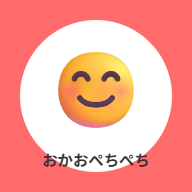
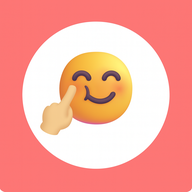
feat: PWA最適化とアイコン更新
- 結果画面の中央表示修正
- シェア機能をデスクトップ向けに最適化
- アイコンパス設定を相対パスに変更
- デバッグログの最適化
- 不要ファイルの削除

diff --git a/main.js b/main.js
@@ -9,9 +9,15 @@ const isLIFFContext = () => {
   return typeof liff !== 'undefined' && window.location.href.includes('line');
 };
 
+// デバッグモード設定
+const DEBUG_MODE = process.env.NODE_ENV === 'development';
+const debugLog = (...args) => {
+  if (DEBUG_MODE) console.log(...args);
+};
+
 // LIFF初期化
 document.addEventListener('DOMContentLoaded', async () => {
-  console.log('環境判定:', { isPWA, isLIFFContext: isLIFFContext() });
+  debugLog('環境判定:', { isPWA, isLIFFContext: isLIFFContext() });
   
   if (isLIFFContext()) {
     // LIFF環境での初期化
@@ -21,7 +27,7 @@ document.addEventListener('DOMContentLoaded', async () => {
       });
       
       if (liff.isLoggedIn()) {
-        console.log('LIFF ログイン済み');
+        debugLog('LIFF ログイン済み');
         initGame();
       } else {
         liff.login();
@@ -32,7 +38,7 @@ document.addEventListener('DOMContentLoaded', async () => {
     }
   } else {
     // PWA/Web環境での初期化
-    console.log('PWA/Web環境で起動');
+    debugLog('PWA/Web環境で起動');
     initGame();
   }
   
@@ -47,7 +53,7 @@ const GAME_CONFIG = {
   CANVAS_HEIGHT: 600,
   MAX_FACES: 100, // ラッシュモード用に最大100個に変更
   INITIAL_FACES: 10,
-  FACE_SIZE: 60,
+  FACE_SIZE: 80, // iPhoneタップ用に60px→80pxに拡大
   MOVE_SPEED: 600, // ピクセル/秒 (6倍に増加)
   
   // ラッシュモード設定
@@ -187,7 +193,7 @@ function initGame() {
   // イベントリスナー設定
   setupEventListeners();
   
-  console.log('ゲーム初期化完了');
+  debugLog('ゲーム初期化完了');
 }
 
 function resizeCanvas() {
@@ -251,19 +257,36 @@ function handleCanvasClick(event) {
 }
 
 function showClickEffect(x, y, points) {
+  const rect = gameState.canvas.getBoundingClientRect();
+  
+  // Canvas座標を実際の画面座標に変換
+  const scaleX = rect.width / GAME_CONFIG.CANVAS_WIDTH;
+  const scaleY = rect.height / GAME_CONFIG.CANVAS_HEIGHT;
+  const screenX = x * scaleX + rect.left;
+  const screenY = y * scaleY + rect.top;
+  
   const effect = document.createElement('div');
-  effect.style.position = 'absolute';
-  effect.style.left = `${x}px`;
-  effect.style.top = `${y}px`;
+  effect.style.position = 'fixed'; // absoluteからfixedに変更
+  effect.style.left = `${screenX}px`;
+  effect.style.top = `${screenY}px`;
   effect.style.color = points > 0 ? '#00ff00' : '#ff0000';
-  effect.style.fontSize = '24px';
+  effect.style.fontSize = '28px'; // 24px→28pxに拡大（モバイル用）
   effect.style.fontWeight = 'bold';
   effect.style.pointerEvents = 'none';
   effect.style.zIndex = '1000';
+  effect.style.transform = 'translate(-50%, -50%)'; // 中央揃え
   effect.textContent = points > 0 ? `+${points}` : `${points}`;
   effect.classList.add('bounce');
   
-  gameState.canvas.parentElement.appendChild(effect);
+  // 画面外チェック
+  const maxX = window.innerWidth - 60;
+  const maxY = window.innerHeight - 40;
+  if (screenX > maxX) effect.style.left = `${maxX}px`;
+  if (screenY > maxY) effect.style.top = `${maxY}px`;
+  if (screenX < 60) effect.style.left = '60px';
+  if (screenY < 40) effect.style.top = '40px';
+  
+  document.body.appendChild(effect); // parentElementからbodyに変更
   
   setTimeout(() => {
     effect.remove();
@@ -284,9 +307,9 @@ function updateScore(points) {
 }
 
 function startGame() {
-  console.log('startGame開始');
+  debugLog('startGame開始');
   resetGame();
-  console.log('resetGame完了');
+  debugLog('resetGame完了');
   
   gameState.isPlaying = true;
   gameState.timeLeft = GAME_CONFIG.DURATION;
@@ -513,9 +536,23 @@ function endGame() {
 }
 
 function showResultScreen() {
+  const resultScreen = document.getElementById('result-screen');
   document.getElementById('final-score').textContent = gameState.score;
-  document.getElementById('result-screen').style.display = 'block';
-  document.getElementById('result-screen').classList.add('fade-in-up');
+  
+  // 一度クラスを削除してからリセット
+  resultScreen.classList.remove('fade-in-up');
+  resultScreen.style.display = 'block';
+  
+  // 強制的に中央配置をリセット
+  resultScreen.style.position = 'absolute';
+  resultScreen.style.top = '50%';
+  resultScreen.style.left = '50%';
+  resultScreen.style.transform = 'translate(-50%, -50%)';
+  
+  // アニメーションを少し遅延させて適用
+  setTimeout(() => {
+    resultScreen.classList.add('fade-in-up');
+  }, 10);
 }
 
 function hideResultScreen() {
@@ -553,21 +590,29 @@ function resetGame() {
 }
 
 async function shareResult() {
-  const message = `🎮 おかおぺちぺち 🎮\n\n📊 最終スコア: ${gameState.score}点\n\n一緒にプレイしませんか？\n\n#おかおぺちぺち #１分ゲーム #Stableソフト`;
+  const message = `🎮 おかおぺちぺち 🎮
+
+📊 最終スコア: ${gameState.score}点
+
+一緒にプレイしませんか？
+
+#おかおぺちぺち #１分ゲーム #Stableソフト
+
+`;
   
   try {
     // LIFF環境での共有
     if (isLIFFContext() && typeof liff !== 'undefined' && liff.isLoggedIn()) {
       await liff.shareTargetPicker([{
         type: 'text',
-        text: message
+        text: message + 'https://stablesoft0801.com/wp-content/uploads/games/okaopetipeti/'
       }]);
       console.log('LIFF経由でシェアしました');
       return;
     }
     
-    // Web Share API (PWA/モバイルブラウザ)
-    if (navigator.share) {
+    // モバイル環境でのみWeb Share APIを使用
+    if (navigator.share && /Android|iPhone|iPad|iPod|BlackBerry|IEMobile|Opera Mini/i.test(navigator.userAgent)) {
       await navigator.share({
         title: 'おかおぺちぺち - ゲーム結果',
         text: message,
@@ -577,16 +622,16 @@ async function shareResult() {
       return;
     }
     
-    // クリップボード API フォールバック
+    // クリップボード API (デスクトップ優先)
     if (navigator.clipboard) {
-      await navigator.clipboard.writeText(message);
-      alert('結果をクリップボードにコピーしました！\nSNSに貼り付けてシェアしてください。');
+      await navigator.clipboard.writeText(message + window.location.href);
+      alert('🎯 結果をクリップボードにコピーしました！\n\n📱 SNSに貼り付けてシェアしてください。\n\n✨ 友達と一緒にプレイしよう！');
       return;
     }
     
     // 最終フォールバック
     const textArea = document.createElement('textarea');
-    textArea.value = message;
+    textArea.value = message + window.location.href;
     document.body.appendChild(textArea);
     textArea.select();
     document.execCommand('copy');
@@ -596,7 +641,15 @@ async function shareResult() {
   } catch (error) {
     console.error('シェアエラー:', error);
     // 最終フォールバック: アラートで表示
-    alert(`🎮 ゲーム結果 🎮\n\nスコア: ${gameState.score}点\n\nスクリーンショットを撮ってシェアしてください！\n\n#おかおぺちぺち #１分ゲーム #Stableソフト`);
+    alert(`🎮 ゲーム結果 🎮
+
+スコア: ${gameState.score}点
+
+スクリーンショットを撮ってシェアしてください！
+
+#おかおぺちぺち #１分ゲーム #Stableソフト
+
+https://stablesoft0801.com/wp-content/uploads/games/okaopetipeti/`);
   }
 }
 

diff --git a/index.html b/index.html
@@ -2,7 +2,7 @@
 <html lang="ja">
   <head>
     <meta charset="UTF-8" />
-    <link rel="icon" type="image/svg+xml" href="/vite.svg" />
+    <link rel="icon" type="image/png" href="./pwa-192x192.png" />
     <meta name="viewport" content="width=device-width, initial-scale=1.0" />
     <title>おかおぺちぺち - Stableソフト</title>
     
@@ -13,12 +13,14 @@
     <meta name="company" content="Stableソフト">
     
     <!-- PWA設定 -->
-    <link rel="manifest" href="/manifest.json">
+    <link rel="manifest" href="./manifest.webmanifest">
     <meta name="theme-color" content="#ff6b6b">
     <meta name="apple-mobile-web-app-capable" content="yes">
     <meta name="apple-mobile-web-app-status-bar-style" content="default">
     <meta name="apple-mobile-web-app-title" content="おかおぺちぺち">
-    <link rel="apple-touch-icon" href="/icon-192.png">
+    <link rel="apple-touch-icon" href="./pwa-192x192.png">
+    <link rel="icon" type="image/png" sizes="192x192" href="./pwa-192x192.png">
+    <link rel="icon" type="image/png" sizes="512x512" href="./pwa-512x512.png">
     
     <script charset="utf-8" src="https://static.line-scdn.net/liff/edge/2/sdk.js"></script>
   </head>
@@ -89,13 +91,13 @@
         </footer>
       </div>
     </div>
-    <script type="module" src="/main.js"></script>
+    <script type="module" src="./main.js"></script>
     
     <!-- PWA Service Worker登録 -->
     <script>
       if ('serviceWorker' in navigator) {
         window.addEventListener('load', () => {
-          navigator.serviceWorker.register('/sw.js')
+          navigator.serviceWorker.register('./sw.js')
             .then((registration) => {
               console.log('SW registered: ', registration);
             })

diff --git a/public/icon-generator.html b/public/icon-generator.html
@@ -33,17 +33,17 @@
             ctx.fillStyle = '#ff6b6b';
             ctx.fillRect(0, 0, size, size);
             
-            // 白い円の境界
+            // 白い円の背景
             ctx.fillStyle = 'white';
             ctx.beginPath();
-            ctx.arc(size/2, size/2, size/2 - 20, 0, Math.PI * 2);
+            ctx.arc(size/2, size/2 - 40, size/3, 0, Math.PI * 2);
             ctx.fill();
             
-            // メインの顔の絵文字
+            // メインの顔文字
             ctx.font = `${size * 0.4}px Arial`;
             ctx.textAlign = 'center';
             ctx.textBaseline = 'middle';
-            ctx.fillText('😊', size/2, size/2);
+            ctx.fillText('😊', size/2, size/2 - 40);
             
             // アプリ名
             ctx.fillStyle = '#333';

diff --git a/vite.config.js b/vite.config.js
@@ -31,18 +31,18 @@ export default defineConfig({
         background_color: '#ff6b6b',
         display: 'standalone',
         orientation: 'portrait',
-        scope: '/wp-content/uploads/games/okaopetipeti/',
-        start_url: '/wp-content/uploads/games/okaopetipeti/',
+        scope: './',
+        start_url: './',
         categories: ['games', 'entertainment'],
         icons: [
           {
-            src: 'pwa-192x192.png',
+            src: './pwa-192x192.png',
             sizes: '192x192',
             type: 'image/png',
             purpose: 'any maskable'
           },
           {
-            src: 'pwa-512x512.png', 
+            src: './pwa-512x512.png', 
             sizes: '512x512',
             type: 'image/png',
             purpose: 'any maskable'

diff --git a/dev-dist/registerSW.js b/dev-dist/registerSW.js
@@ -1,1 +1,1 @@
-if('serviceWorker' in navigator) navigator.serviceWorker.register('/dev-sw.js?dev-sw', { scope: '/', type: 'classic' })
+if('serviceWorker' in navigator) navigator.serviceWorker.register('/wp-content/uploads/games/okaopetipeti/dev-sw.js?dev-sw', { scope: '/wp-content/uploads/games/okaopetipeti/', type: 'classic' })

diff --git a/style.css b/style.css
@@ -298,11 +298,11 @@ body {
 @keyframes fadeInUp {
   from {
     opacity: 0;
-    transform: translate3d(0, 40px, 0);
+    transform: translate(-50%, calc(-50% + 40px));
   }
   to {
     opacity: 1;
-    transform: translate3d(0, 0, 0);
+    transform: translate(-50%, -50%);
   }
 }
 
